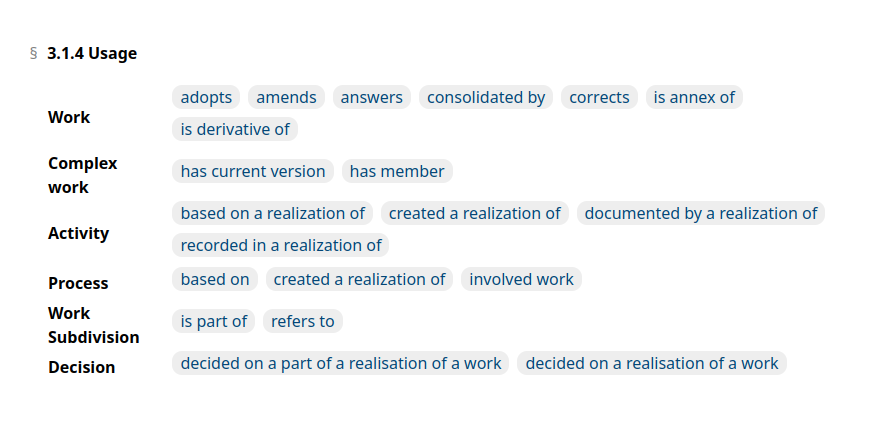
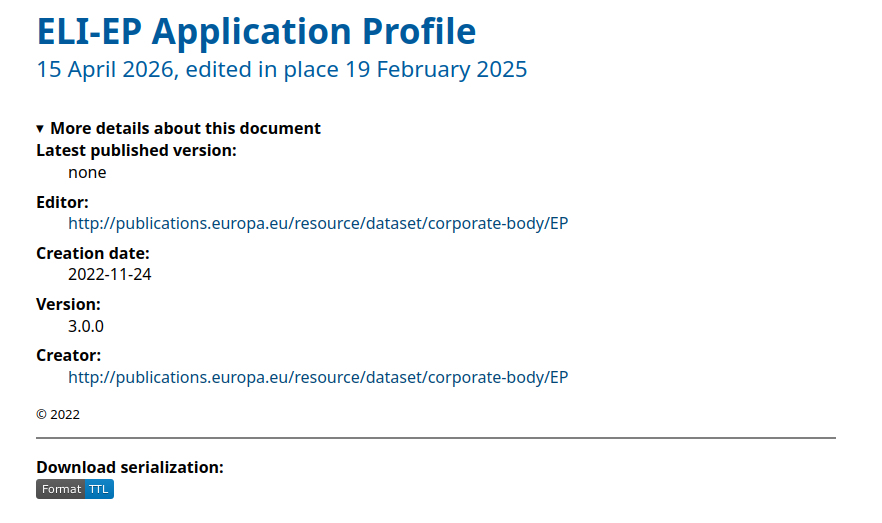
QLever / MCP stories

diff --git a/src/en/posts/20260427-MCP-over-SPARQL.md b/src/en/posts/20260427-MCP-over-SPARQL.md
@@ -1,0 +1,36 @@
+---
+layout: post.njk
+title: "MCP protocol over SPARQL endpoints"
+author: Thomas Francart
+date: 2026-04-25
+description: "Setting up a GraphRAG architecture does not only require access to your SPARQL endpoint. It also requires the ability for the agent to understand the graph structure, and lookup entity URIs."
+tags: SPARQL, SHACL, AI, MCP, graphRAG
+permalink: "{{ lang }}/posts/{{ title | slugify }}/"
+linkedin: 
+bluesky:
+mastodon:
+---
+
+<p class="lead">GraphRAG architecture requires 3 things : an access to a SPARQL service, an understanding of what the graph looks like, and the ability to lookup entities from their names.</p>
+
+Together with the team at [Lab of Huma-Num IR*](https://www.huma-num.fr/hnlab/) we are prototyping an MCP connector over a knowledge graph accessible through a SPARQL endpoint. [MCP (Model Context Protocol)](https://modelcontextprotocol.io/) enables to plug connectors to AI agents through a (not-quite-entirely-stable-yet) standard protocol. Using MCP a server can expose 3 things :
+  1. **tools** : functions that the AI agent can choose to call (the agent decides)
+  2. **resources** : files or data that the user can choose to expose to the AI agent, typically personal data (like your calendar) or local files (from your computer)
+  3. **prompts** : predefined prompts that the user can explicitly invoke with predefined inputs. Prompts will guide the AI agent in doing a task in a certain way.
+
+What does it mean if you have a semantic knowledge graph and you want to expose it through MCP ? It means you need 3 MCP tools :
+  1. A first tool that **exposes the SPARQL endpoint** (input : SPARQL query, output : SPARQL result format, JSON or XML variant)
+  2. A second tool that **exposes the SHACL specification of the knowledge structure** (input : nothing, output : a JSON representation of the [SHACL](https://www.w3.org/TR/shacl/) spec of the knowledge graph). This is critical. It enables the agent to understand the structure of the graph without the need to discover it itself. Besides, through this SHACL spec, you can choose to expose to the agent a subset of the full classes and predicates that the graph contains. In addition, you can complement it with hints and explanations on how to write certain queries, in particular using the [upcoming `sh:agentInstruction` annotation from SHACL 1.2](https://www.w3.org/TR/shacl12-core/#agentInstruction). A typical information that the agent needs is which property to use as the human-readable label of each entity.
+  3. A third tool that allows the agent to **resolve named entities from their names** (input : label to search + type of entity). This is necessary to decouple named entity reconciliation contained in user input, from graph traversal (e.g. _"Give me all articles written by Thomas Francart"_). Named entity reconciliation can be implemented in standard SPARQL - but this is suboptimal, as SPARQL is lacking full-text search; or using proprietary full-text SPARQL extensions in your triplestore of choice; or through a dedicated search index built from knowledge graph content, which is the most efficient. And you can expose your reconciliation service also as an [OpenRefine-compatible API](https://www.w3.org/community/reports/reconciliation/CG-FINAL-specs-0.2-20230410/), so that it becomes also available if/when you or others work with OpenRefine.
+
+The intended agent behavior is the following : it will first read the knowledge graph structure to understand it; then it will parse user query, detect named entities from the user query, reconcile them to find their URI (and potentially asking the help of the user for that using the [elicitation feature of MCP](https://modelcontextprotocol.io/docs/learn/client-concepts#elicitation) - but this is not widely supported yet), and finally write and execute the final SPARQL query, based on the graph structure and containing named entities URI. It would fetch human-readable labels (and other properties) as indicated in the graph structure to present a meaningful result to the user.
+
+You can forget about MCP resources for this use-case (unless of course they are needed for something else than for SPARQL querying). You can optionally write an MCP prompt that explicitly instruct the AI agent to do this "fetch structure -> reconcile entities -> execute final SPARQL" sequence but that is not required, it will figure it out itself if you provide enough tool description in your MCP server.
+
+Yes, all of that requires not just a knowledge graph, but a SHACL profile of it. Of course, how can you ask anyone (flesh- or silicon-made) to query something without first explaining the structure of it ? Luckily we have [automated RDF analysis algorithms](https://shacl-play.sparna.fr/play/generate#documentation) that enables you to produce a SHACL profile from your dataset to get you started. This is yet another use-case for the centrality of SHACL profiles in any knowledge graph based architecture, as explained in [last year ENDORSE conference](https://shacl-play.sparna.fr/play/generate#documentation) - the other main use-case is the provision of human-readable documentation.
+
+Yes, all of that requires a reconciliation service from named entities to URI. This is the price to pay when working with semantic knowledge graphs where you want unambiguous identifiers, _"things not strings"_. If you think you don't need that, you probably don't need semantic knowledge graphs.
+
+Those 3 steps (SHACL specs parsing, entity reconciliation, final query writing including human-readable labels) we already had when designing the [Sparnatural UI](https://sparnatural.eu/), and we had already integrated them in our experiment with [Sparnatural-AI](https://sparna-git.github.io/sparnatural-ai/doc-page.html). One main difference is that in Sparnatural-AI we were exposing the SHACL structure inside the agent prompt, while here it is the agent that explicitly requests the SHACL structure. Another difference is that with Sparnatural queries the agent does not need to worry about human-readable labels : they are automatically inserted when generating the final SPARQL query.
+
+Exposing everything we had through MCP was easy and we see immediate GraphRAG usage by the agent of the content of the graph by the agent, with correct queries : the agent does not need to iterate on multiple queries to build a proper SPARQL query.

diff --git a/src/en/posts/20260424-Isidore-QLever-SPARQL.md b/src/en/posts/20260424-Isidore-QLever-SPARQL.md
@@ -1,0 +1,26 @@
+---
+layout: post.njk
+title: "Isidore SPARQL endpoint experiment with QLever"
+author: Thomas Francart
+date: 2026-04-24
+description: "Deploying QLever on a 400 million triples dataset on a 4 CPU, 32Gb RAM server"
+tags: RDF, QLever, triplestore, Isidore, Huma-Num
+permalink: "{{ lang }}/posts/{{ title | slugify }}/"
+linkedin: 
+bluesky:
+mastodon:
+---
+
+<p class="lead"><a href="https://isidore.science/">Isidore</a>, the search engine on humanities and social sciences, indexing more than 7.8 million documents, once had a public SPARQL service, now dead for lack of usage.</p>
+
+Together with the team at the [Lab of Huma-Num IR*](https://www.huma-num.fr/hnlab/) we resurrected it as the first step of an experiment on the analysis of user journeys in the Isidore portal (funding by Equipex+ Commons). This is actually a half-resurrection, as the new endpoint is not made to be public. And based on this endpoint we can extract meaningful subsets of the metadata through a custom [Sparnatural](https://sparnatural.eu/) interface.
+
+We decided to test QLever to load the full dataset of all documents, sources, collections and authors of Isidore. The dataset is 420 million triples, broken down into 18 million files (!) and the server at our disposal was a medium-size 4 CPU, 32Gb RAM machine. We asked the expertise of our partner of [QLeverize](https://www.qleverize.com/), who did an excellent job at deploying Qlever and ingesting the dataset.
+
+QLever ingests the 18 million RDF files in around 2 hours, then we run a serie of SPARQL Update queries to do some data cleaning. Some large updates fail because of a lack of memory, but I would not blame QLever for that as the real source of the problem is in a few syntactic issues in the data files themselves. The queries we are testing are fast, although we haven't benchmarked them against another triplestore. We saw a couple of shortcomings (like the lack of support of the `sameTerm` function, or the inability in the UI to display datatypes that don't start with `http`). I think what we are lacking the most right now is a full-text index over some predicates _(we were told the full-text index should be here in a few weeks !)_. This is necessary for us to do some named entity reconciliation for an MCP server but ssshhh... this is for another story ! 
+
+
+[![](/assets/posts-images/isidore-qlever-1.png)](/assets/posts-images/isidore-qlever-1.png)
+
+
+[![](/assets/posts-images/isidore-qlever-2.png)](/assets/posts-images/isidore-qlever-2.png)
